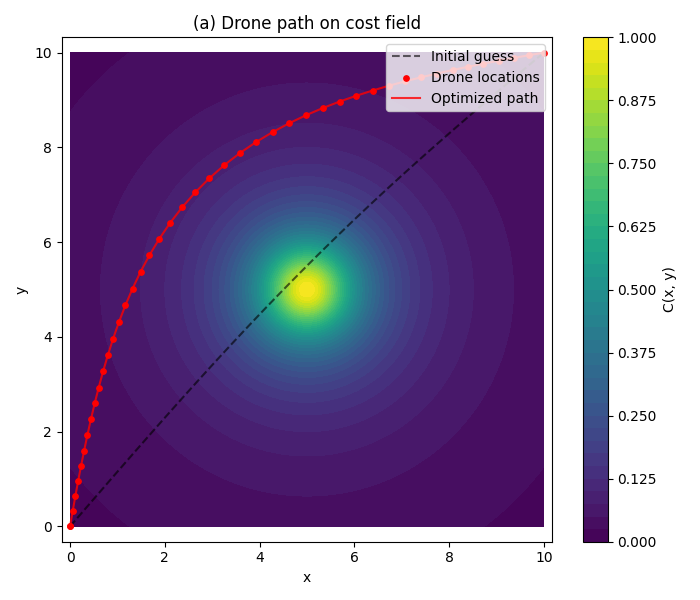
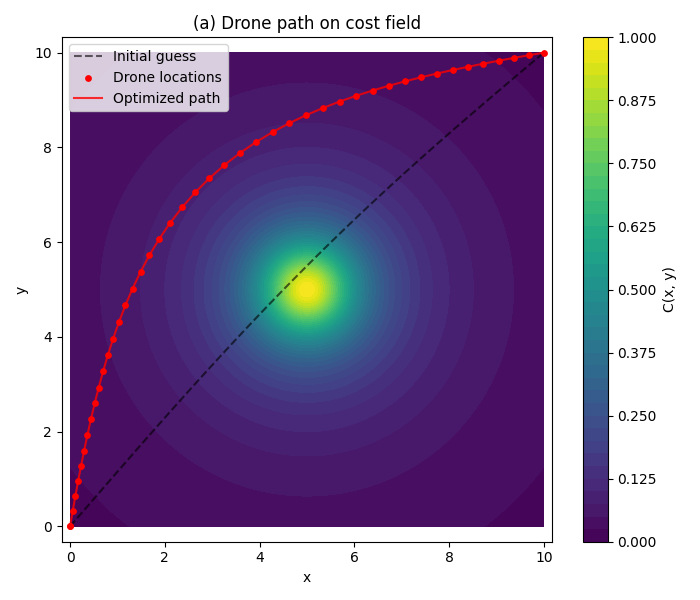
optimization for 2 drones added

Changed region(s): [[0.54, 0.06, 0.78, 0.21], [0.09, 0.06, 0.33, 0.21]]

diff --git a/Homework 5/Assignment 5.py b/Homework 5/Assignment 5.py
@@ -17,10 +17,24 @@ def unpack(z):
 
 
 def cost_field(x, y):
-    # cost function question 1
+    #cost function question 1
     #return 1.0 / ((x - 5.0) ** 2 + (y - 5.0) ** 2 + 1.0)
-    # cost function question 2
+    # cost function question 2 and 3
     return np.cos(x)**2 * np.cos(y)**2
+
+
+def cost_grad(x, y):
+    # analytical gradient of the cost function
+    #for question 1
+    #denom = (x - 5.0) ** 2 + (y - 5.0) ** 2 + 1.0
+    #dC_dx = -2.0 * (x - 5.0) / (denom ** 2)
+    #dC_dy = -2.0 * (y - 5.0) / (denom ** 2)
+
+    #for question 2 and 3
+    dC_dx = -np.sin(2.0 * x) * (np.cos(y) ** 2)
+    dC_dy = -(np.cos(x) ** 2) * np.sin(2.0 * y)
+
+    return dC_dx, dC_dy
 
 
 def objective(z):
@@ -37,14 +51,7 @@ def objective_grad(z):
     # analytical gradient of the objective function
     x, y = unpack(z)
 
-    #for question 1
-    #denom = (x - 5.0) ** 2 + (y - 5.0) ** 2 + 1.0
-    #dC_dx = -2.0 * (x - 5.0) / (denom ** 2)
-    #dC_dy = -2.0 * (y - 5.0) / (denom ** 2)
-
-    #for question 2
-    dC_dx = -np.sin(2.0 * x) * (np.cos(y) ** 2)
-    dC_dy = -(np.cos(x) ** 2) * np.sin(2.0 * y)
+    dC_dx, dC_dy = cost_grad(x, y)
 
     grad2_x = np.zeros_like(x)
     grad2_y = np.zeros_like(y)
@@ -172,7 +179,7 @@ def callback(xk):
     ineq_violation_history.append(max_ineq_violation)
 
 
-def main():
+def main_single_drone():
     # Solve optimization problem
     result = minimize(
         objective,
@@ -256,13 +263,13 @@ def main():
             name = c.get("name", "unnamed")
             print("{:<25s} | {:>15.4e}".format(name, val))
 
-    # Summarize speed constraints (there are too many to list individually)
+    # Summarize speed constraints 
     speed_vals = []
     for c in constraints:
         if "speed" in c.get("name", ""):
             speed_vals.append(c["fun"](z_opt))
     
-    # For inequality g(x) >= 0, a positive value is good.
+    # For inequality g(x) bigger or = 0, a positive value is good.
     min_speed_margin = min(speed_vals)
     print("-" * 45)
     print("{:<25s} | {:>15.4e}".format("Min Speed Margin (>=0)", min_speed_margin))
@@ -270,5 +277,267 @@ def main():
     print("="*45)
 
 
+#question 3: two drones
+
+def unpack_two(z):
+    # split into x1, y1, x2, y2 arrays
+    x1 = z[0:N]
+    y1 = z[N:2*N]
+    x2 = z[2*N:3*N]
+    y2 = z[3*N:4*N]
+    return x1, y1, x2, y2
+
+
+def objective_two(z):
+    x1, y1, x2, y2 = unpack_two(z)
+    term1 = np.sum(cost_field(x1, y1)) + np.sum(cost_field(x2, y2))
+    dx1 = np.diff(x1)
+    dy1 = np.diff(y1)
+    dx2 = np.diff(x2)
+    dy2 = np.diff(y2)
+    term2 = np.sum(dx1 * dx1 + dy1 * dy1 + dx2 * dx2 + dy2 * dy2)
+    return term1 + term2
+
+
+def objective_grad_two(z):
+    x1, y1, x2, y2 = unpack_two(z)
+
+    dC1_dx, dC1_dy = cost_grad(x1, y1)
+    dC2_dx, dC2_dy = cost_grad(x2, y2)
+
+    def path_grad(coord):
+        g = np.zeros_like(coord)
+        for j in range(N):
+            if j > 0:
+                g[j] += 2.0 * (coord[j] - coord[j - 1])
+            if j < N - 1:
+                g[j] -= 2.0 * (coord[j + 1] - coord[j])
+        return g
+
+    grad2_x1 = path_grad(x1)
+    grad2_y1 = path_grad(y1)
+    grad2_x2 = path_grad(x2)
+    grad2_y2 = path_grad(y2)
+
+    gx1 = dC1_dx + grad2_x1
+    gy1 = dC1_dy + grad2_y1
+    gx2 = dC2_dx + grad2_x2
+    gy2 = dC2_dy + grad2_y2
+
+    return np.concatenate([gx1, gy1, gx2, gy2])
+
+
+constraints_two = []
+d_min = 1.0
+
+
+def add_eq_constraint_two(name, indices, coeffs, rhs):
+    indices = np.asarray(indices, dtype=int)
+    coeffs = np.asarray(coeffs, dtype=float)
+
+    def fun(z):
+        return float(np.dot(coeffs, z[indices]) - rhs)
+
+    def jac(z):
+        g = np.zeros_like(z)
+        g[indices] = coeffs
+        return g
+
+    constraints_two.append({"type": "eq", "fun": fun, "jac": jac, "name": name})
+
+
+def idx_x1(i):
+    return i
+
+
+def idx_y1(i):
+    return N + i
+
+
+def idx_x2(i):
+    return 2 * N + i
+
+
+def idx_y2(i):
+    return 3 * N + i
+
+
+# Boundary conditions for drone 1: (0,0) to (10,10)
+add_eq_constraint_two("x1_start", [idx_x1(0)], [1.0], 0.0)
+add_eq_constraint_two("y1_start", [idx_y1(0)], [1.0], 0.0)
+add_eq_constraint_two("x1_end", [idx_x1(N - 1)], [1.0], 10.0)
+add_eq_constraint_two("y1_end", [idx_y1(N - 1)], [1.0], 10.0)
+
+# Boundary conditions for drone 2: (10,10) to (0,0)
+add_eq_constraint_two("x2_start", [idx_x2(0)], [1.0], 10.0)
+add_eq_constraint_two("y2_start", [idx_y2(0)], [1.0], 10.0)
+add_eq_constraint_two("x2_end", [idx_x2(N - 1)], [1.0], 0.0)
+add_eq_constraint_two("y2_end", [idx_y2(N - 1)], [1.0], 0.0)
+
+# Zero initial velocities for both drones
+add_eq_constraint_two("vx1_initial", [idx_x1(1), idx_x1(0)], [1.0, -1.0], 0.0)
+add_eq_constraint_two("vy1_initial", [idx_y1(1), idx_y1(0)], [1.0, -1.0], 0.0)
+add_eq_constraint_two("vx2_initial", [idx_x2(1), idx_x2(0)], [1.0, -1.0], 0.0)
+add_eq_constraint_two("vy2_initial", [idx_y2(1), idx_y2(0)], [1.0, -1.0], 0.0)
+
+
+def make_speed_constraint_two(drone, k):
+    # Speed constraint for segment k of drone 1 or 2
+    def fun(z):
+        x1, y1, x2, y2 = unpack_two(z)
+        if drone == 1:
+            x = x1
+            y = y1
+        else:
+            x = x2
+            y = y2
+        u = (x[k + 1] - x[k]) / dt
+        v = (y[k + 1] - y[k]) / dt
+        return vmax ** 2 - (u * u + v * v)
+
+    def jac(z):
+        x1, y1, x2, y2 = unpack_two(z)
+        if drone == 1:
+            base_x = 0
+            base_y = N
+            x = x1
+            y = y1
+        else:
+            base_x = 2 * N
+            base_y = 3 * N
+            x = x2
+            y = y2
+
+        u = (x[k + 1] - x[k]) / dt
+        v = (y[k + 1] - y[k]) / dt
+
+        g = np.zeros_like(z)
+
+        du_dxk1 = 1.0 / dt
+        du_dxk = -1.0 / dt
+        dv_dyk1 = 1.0 / dt
+        dv_dyk = -1.0 / dt
+
+        g[base_x + k] += -2.0 * u * du_dxk
+        g[base_x + k + 1] += -2.0 * u * du_dxk1
+        g[base_y + k] += -2.0 * v * dv_dyk
+        g[base_y + k + 1] += -2.0 * v * dv_dyk1
+
+        return g
+
+    return {"type": "ineq", "fun": fun, "jac": jac, "name": f"speed_d{drone}_{k}"}
+
+
+for k in range(N - 1):
+    constraints_two.append(make_speed_constraint_two(1, k))
+    constraints_two.append(make_speed_constraint_two(2, k))
+
+
+def make_collision_constraint(i):
+    # collision avoidance: keep drones at least d_min apart
+    def fun(z):
+        x1, y1, x2, y2 = unpack_two(z)
+        dx = x1[i] - x2[i]
+        dy = y1[i] - y2[i]
+        return dx * dx + dy * dy - d_min ** 2
+
+    def jac(z):
+        x1, y1, x2, y2 = unpack_two(z)
+        dx = x1[i] - x2[i]
+        dy = y1[i] - y2[i]
+        g = np.zeros_like(z)
+        g[idx_x1(i)] += 2.0 * dx
+        g[idx_y1(i)] += 2.0 * dy
+        g[idx_x2(i)] += -2.0 * dx
+        g[idx_y2(i)] += -2.0 * dy
+        return g
+
+    return {"type": "ineq", "fun": fun, "jac": jac, "name": f"collision_{i}"}
+
+
+for i in range(N):
+    constraints_two.append(make_collision_constraint(i))
+
+
+# Bounds and initial guess for question 3
+bounds_two = [(0.0, 10.0)] * (4 * N)
+
+x1_init_q3 = np.linspace(0.0, 10.0, N)
+t_q3 = np.linspace(0.0, np.pi, N)
+y1_init_q3 = np.linspace(0.0, 10.0, N) + 0.5 * np.sin(t_q3)
+y1_init_q3 = np.clip(y1_init_q3, 0.0, 10.0)
+
+x2_init_q3 = np.linspace(10.0, 0.0, N)
+y2_init_q3 = np.linspace(10.0, 0.0, N) - 0.5 * np.sin(t_q3)
+y2_init_q3 = np.clip(y2_init_q3, 0.0, 10.0)
+
+z0_two = np.concatenate([x1_init_q3, y1_init_q3, x2_init_q3, y2_init_q3])
+
+
+def main_two_drones():
+    result = minimize(
+        objective_two,
+        z0_two,
+        method="SLSQP",
+        jac=objective_grad_two,
+        bounds=bounds_two,
+        constraints=constraints_two,
+        options={"maxiter": 300, "ftol": 1e-6, "disp": True},
+    )
+
+    print("\nSuccess:", result.success)
+    print("Message:", result.message)
+    print("Final objective value:", result.fun)
+
+    x1_opt, y1_opt, x2_opt, y2_opt = unpack_two(result.x)
+
+    grid_x = np.linspace(0.0, 10.0, 200)
+    grid_y = np.linspace(0.0, 10.0, 200)
+    X, Y = np.meshgrid(grid_x, grid_y)
+    C = cost_field(X, Y)
+
+    plt.figure(figsize=(7, 6))
+    cs = plt.contourf(X, Y, C, levels=40, cmap='viridis')
+    plt.colorbar(cs, label="C(x, y)")
+
+    # initial guesses
+    plt.plot(x1_init_q3, y1_init_q3, "k--", alpha=0.5, label="Drone 1 initial")
+    plt.plot(x2_init_q3, y2_init_q3,
+             linestyle="--", color="magenta", alpha=0.7, label="Drone 2 initial")
+
+    # optimized paths
+    plt.plot(x1_opt, y1_opt, "r-", label="Drone 1 path")
+    plt.plot(x2_opt, y2_opt, color="c", label="Drone 2 path")
+
+    # arrows to indicate path
+    mid = N // 2
+
+    plt.annotate(
+        "",
+        xy=(x1_opt[mid + 1], y1_opt[mid + 1]),
+        xytext=(x1_opt[mid], y1_opt[mid]),
+        arrowprops=dict(arrowstyle="->", color="r", lw=2),
+    )
+
+    plt.annotate(
+        "",
+        xy=(x2_opt[mid + 1], y2_opt[mid + 1]),
+        xytext=(x2_opt[mid], y2_opt[mid]),
+        arrowprops=dict(arrowstyle="->", color="c", lw=2),
+    )
+    plt.xlabel("x")
+    plt.ylabel("y")
+    plt.axis("equal")
+    plt.title("Two-drone paths with collision avoidance")
+    plt.legend(loc='upper left')
+    plt.tight_layout()
+    plt.show()
+
 if __name__ == "__main__":
-    main()
+    # use cost_field/cost_grad versions for question 1 or 2
+    # set scenario = 1 or 2 for single drone, scenario = 3 for two drones
+    scenario = 3
+    if scenario == 3:
+        main_two_drones()
+    else:
+        main_single_drone()
